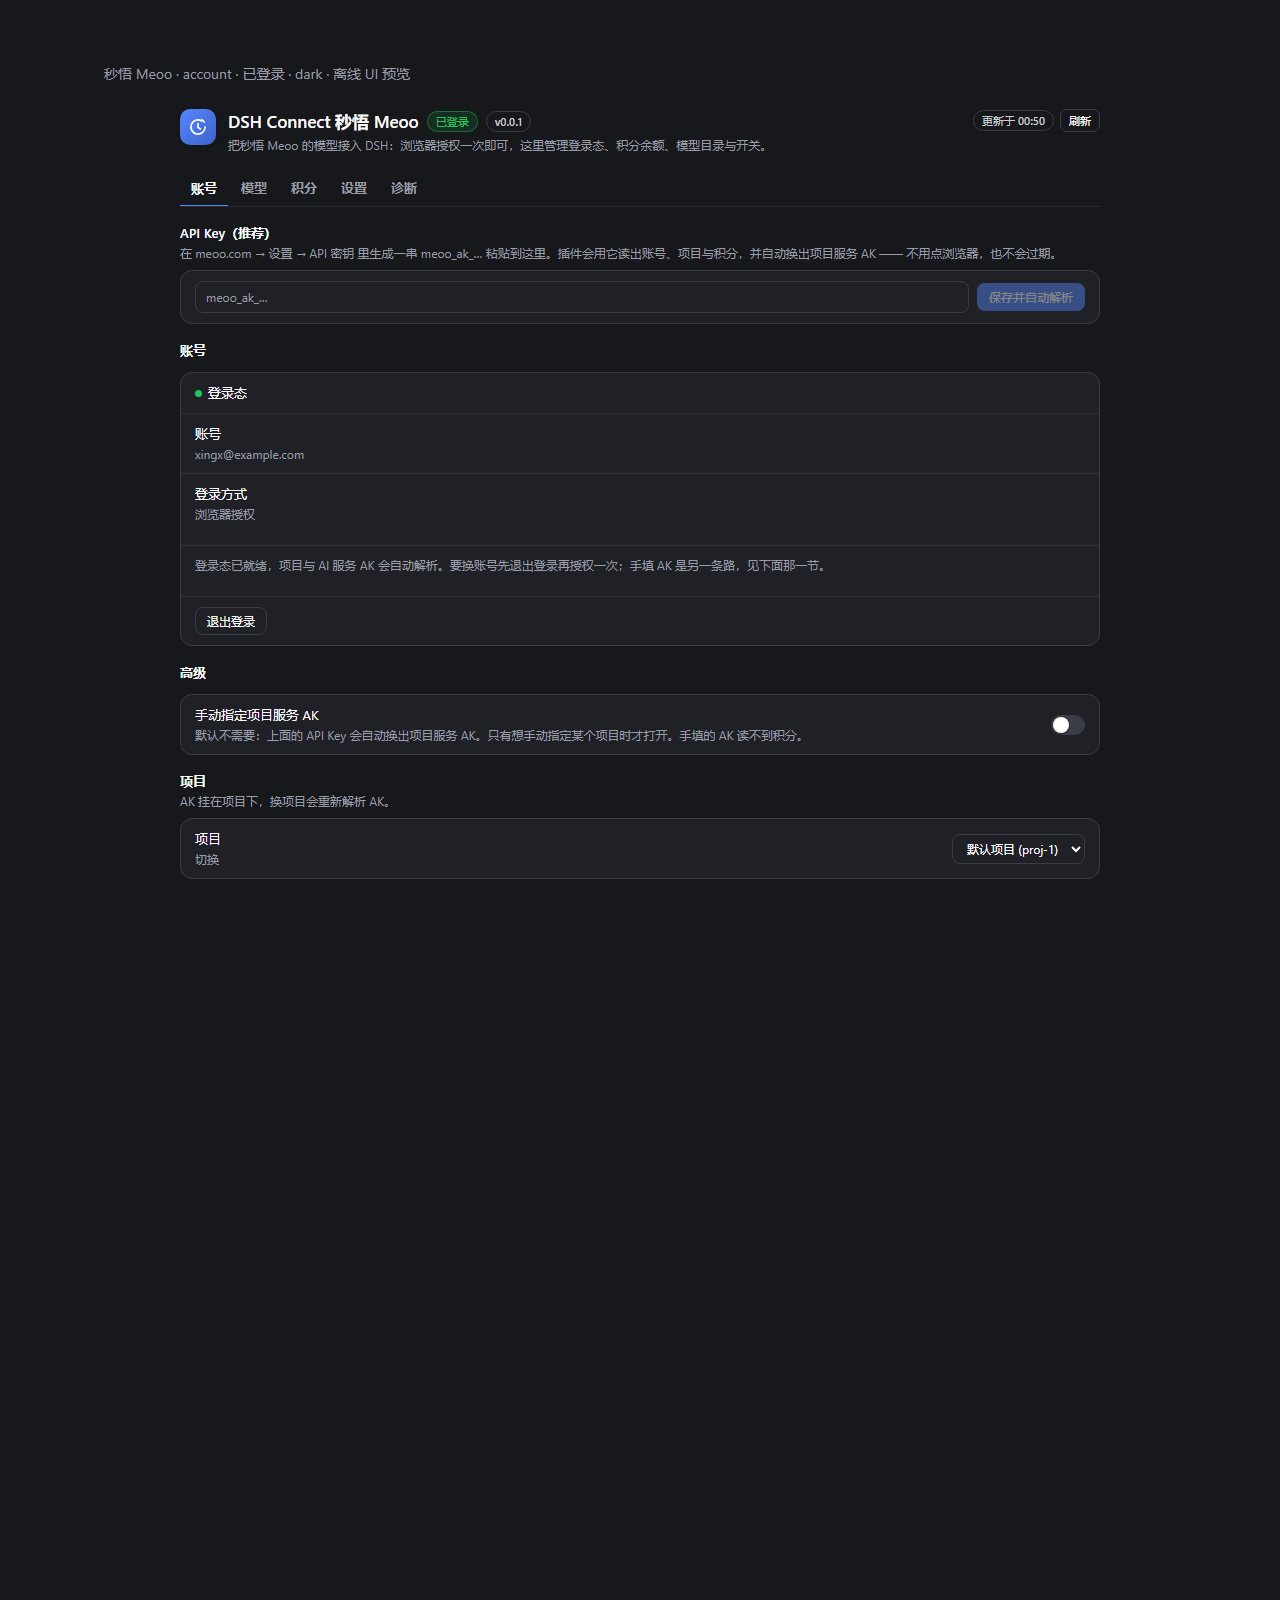
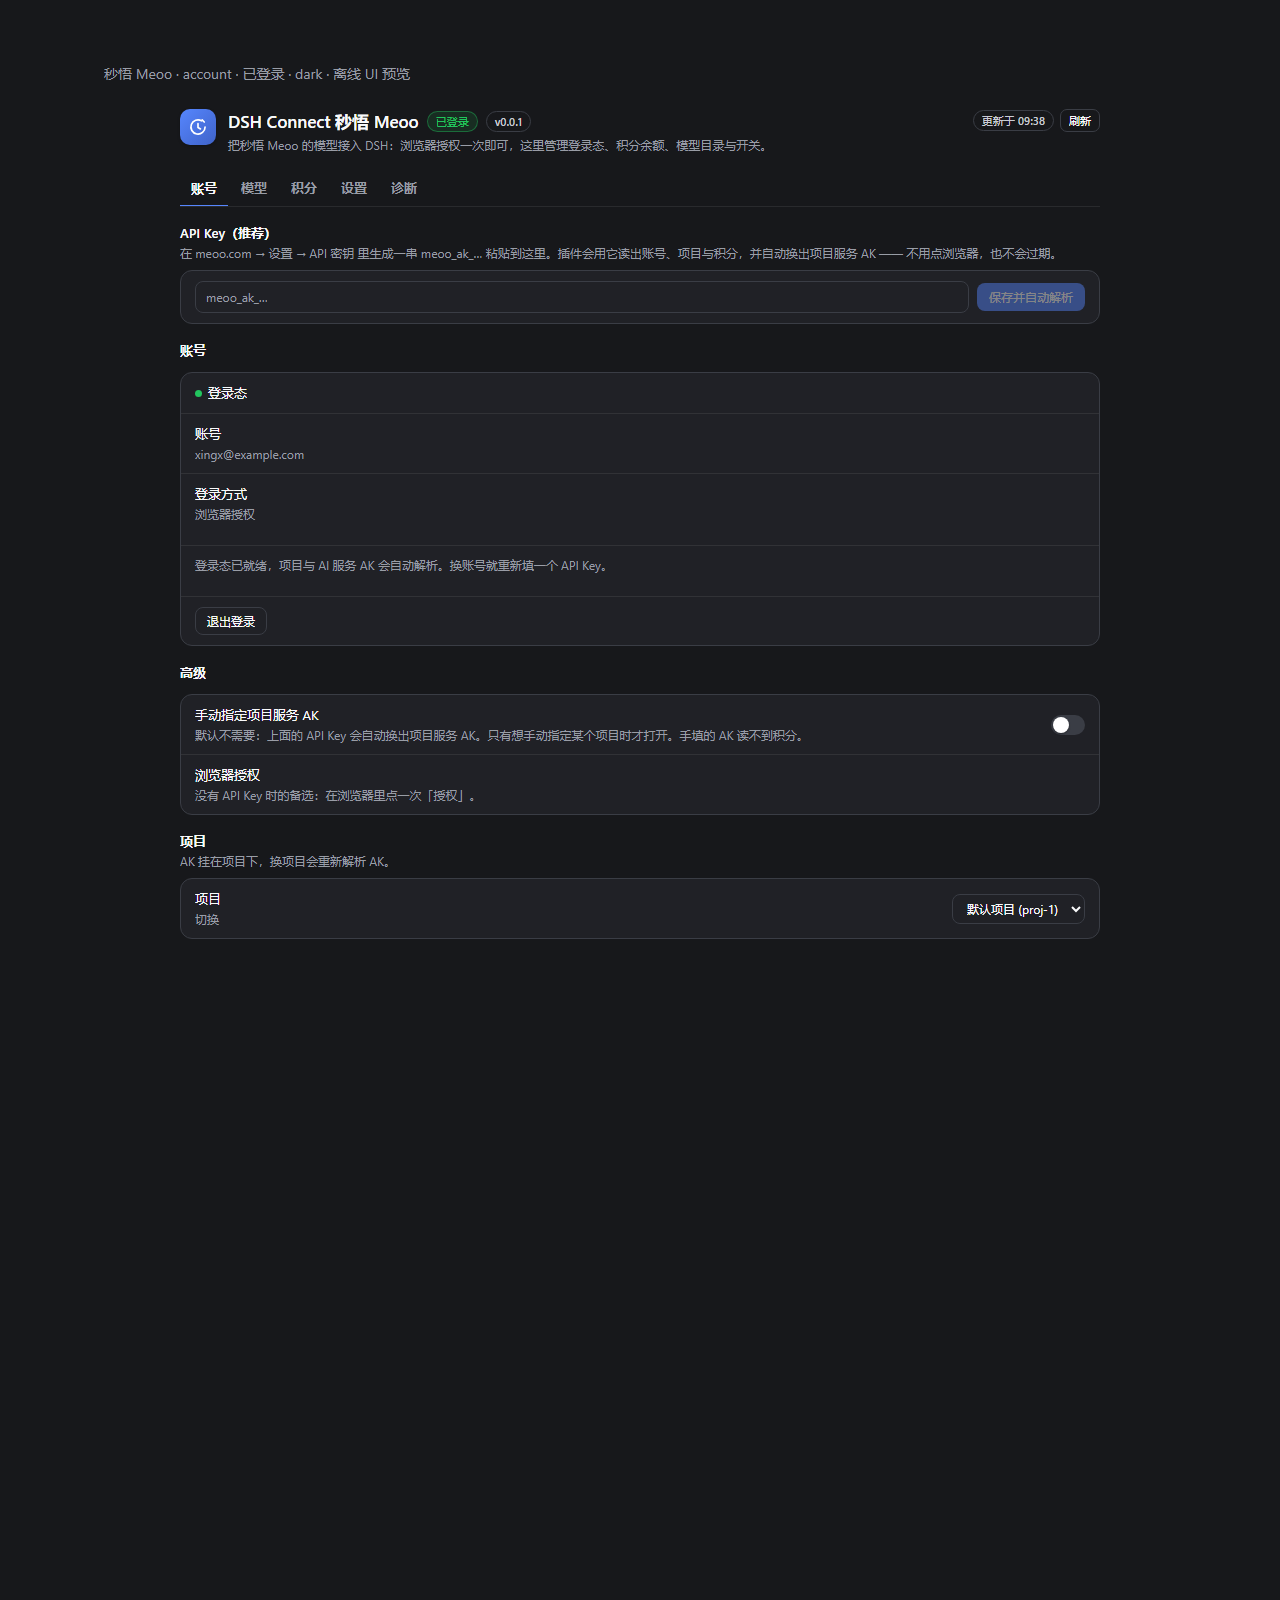
feat(ui): API Key 成为唯一主路径，去掉「登录秒悟」主按钮
对齐 qoder 插件的 PAT 模式：key 就是凭据，填完自动读出账号、项目、积分，
不需要再登录。浏览器授权降级到「高级」里的次要按钮，供没有 key 的用户兜底。

- 账号区不再有「登录秒悟」主按钮（之前和 API Key 并列，让人以为必须先登录）
- 未登录提示改为「在上面填一个 API Key 即可」，不再指向登录按钮
- 顶部副标题、已登录提示同步改写
- 新增 3 条回归测试锁住这个布局

diff --git a/src/client/bundle.js b/src/client/bundle.js
@@ -252,7 +252,7 @@
     openPanel: '打开秒悟面板',
     metaTitle: 'DSH Connect 秒悟 Meoo',
     metaDescription:
-      '把秒悟 Meoo 的模型接入 DSH：浏览器授权一次即可，这里管理登录态、积分余额、模型目录与开关。',
+      '把秒悟 Meoo 的模型接入 DSH：填一个 API Key 即可，这里管理账号、积分余额、模型目录与开关。',
     name: 'Meoo 秒悟',
     pill: '秒悟',
     pillPoints: '秒悟 · {points}',
@@ -289,12 +289,12 @@
     refresh: '刷新',
     refreshing: '刷新中…',
     loginHint:
-      '点「登录秒悟」会在浏览器打开授权页；点一次「授权」后，项目与 AI 服务 AK 会自动解析。也可以用 /meoo key 或本页手填 AK。',
+      '点「浏览器授权」会在浏览器打开授权页；点一次「授权」后，项目与 AI 服务 AK 会自动解析。',
     signedInHint:
-      '登录态已就绪，项目与 AI 服务 AK 会自动解析。要换账号先退出登录再授权一次；手填 AK 是另一条路，见下面那一节。',
+      '登录态已就绪，项目与 AI 服务 AK 会自动解析。换账号就重新填一个 API Key。',
     signedOutHint:
-      '还没有读到秒悟登录态。点「登录秒悟」在你自己的浏览器里授权一次即可；插件从不接触你的密码。',
-    expiredHint: '登录态已失效。点「登录秒悟」重新授权一次。',
+      '还没有读到秒悟凭据。在上面填一个 API Key 即可 —— 插件会自动读出账号、项目与积分，不用再登录。',
+    expiredHint: '登录态已失效。重新填一次 API Key，或在「高级 → 浏览器授权」里重新授权。',
     apiKeyTitle: 'API Key（推荐）',
     apiKeyLabel: '控制面 API Key（meoo_ak_…）',
     apiKeyPlaceholder: 'meoo_ak_…',
@@ -304,6 +304,8 @@
       '在 meoo.com → 设置 → API 密钥 里生成一串 meoo_ak_… 粘贴到这里。插件会用它读出账号、项目与积分，并自动换出项目服务 AK —— 不用点浏览器，也不会过期。',
     apiKeyBadType: '这是项目服务 AK，不是 API Key；API Key 以 meoo_ak_ 开头。',
     advancedTitle: '高级',
+    oauthTitle: '浏览器授权',
+    oauthHint: '没有 API Key 时的备选：在浏览器里点一次「授权」。',
     akTitle: '手动指定项目服务 AK',
     akLabel: '项目服务 AK（meoo_project_service_v1.…）',
     akPlaceholder: 'meoo_project_service_v1.…',
@@ -439,10 +441,10 @@
     loginHint:
       '“Sign in to Meoo” opens the authorisation page in your browser; press Authorise once and the project plus AI service AK are resolved automatically. You can also paste an AK here or use /meoo key.',
     signedInHint:
-      'Signed in. The project and AI service AK are resolved automatically. To switch accounts, sign out and authorise again; pasting an AK is the other route, see the section below.',
+      'Signed in. The project and AI service AK are resolved automatically. To switch accounts, paste a different API key.',
     signedOutHint:
-      'No Meoo sign-in found yet. Press “Sign in to Meoo” to authorise once in your own browser; the plugin never touches your password.',
-    expiredHint: 'The sign-in expired. Press “Sign in to Meoo” to authorise again.',
+      'No Meoo credentials yet. Paste an API key above — the plugin reads your account, project and points automatically. No sign-in needed.',
+    expiredHint: 'The sign-in expired. Paste an API key again, or re-authorise under Advanced → Browser sign-in.',
     apiKeyTitle: 'API Key (recommended)',
     apiKeyLabel: 'Control-plane API key (meoo_ak_…)',
     apiKeyPlaceholder: 'meoo_ak_…',
@@ -452,6 +454,8 @@
       'Create a meoo_ak_… key at meoo.com → Settings → API keys and paste it here. The plugin reads your account, projects and points with it and resolves the project service AK automatically — no browser, no expiry.',
     apiKeyBadType: 'That is a project service AK, not an API key; API keys start with meoo_ak_.',
     advancedTitle: 'Advanced',
+    oauthTitle: 'Browser sign-in',
+    oauthHint: 'Fallback when you have no API key: approve once in your browser.',
     akTitle: 'Set a project service AK by hand',
     akLabel: 'Project service AK (meoo_project_service_v1.…)',
     akPlaceholder: 'meoo_project_service_v1.…',
@@ -1010,22 +1014,9 @@
             Section,
             {
               title: t('account'),
-              // 已登录时不再摆一个「登录」主按钮：那会让人以为登录态没生效。
-              actions:
-                state === 'signed-in'
-                  ? null
-                  : h(
-                      'button',
-                      {
-                        type: 'button',
-                        className: 'dsm-meoo-btn dsm-meoo-btn-primary',
-                        disabled: busy !== '',
-                        onClick: function () {
-                          doLogin(false);
-                        },
-                      },
-                      busy === 'login' || pending ? t('loggingIn') : t('loginNow'),
-                    ),
+              // 不摆「登录秒悟」主按钮：API Key 才是主路径，两个并列的入口会让人
+              // 以为必须点登录。浏览器授权降级到「高级」里的次要链接（见下方 oauthRow）。
+              actions: null,
             },
             h(
               Row,
@@ -1181,6 +1172,26 @@
                   ),
                 )
               : null,
+            // 浏览器授权：没有 API Key 时的备选。默认折叠，避免和 API Key 抢主路径。
+            h(
+              Row,
+              { name: t('oauthTitle'), sub: t('oauthHint') },
+              // 已登录时这一行只是说明，不再给按钮（否则像是没登录成功）。
+              state === 'signed-in'
+                ? null
+                : h(
+                    'button',
+                    {
+                      type: 'button',
+                      className: 'dsm-meoo-btn dsm-meoo-btn-sm',
+                      disabled: busy !== '',
+                      onClick: function () {
+                        doLogin(false);
+                      },
+                    },
+                    busy === 'login' || pending ? t('loggingIn') : t('loginNow'),
+                  ),
+            ),
           ),
           h(ProjectPanel, { t: t, doc: doc }),
         );

diff --git a/test/client-render.test.ts b/test/client-render.test.ts
@@ -686,3 +686,44 @@ test('模型行显示官网价格档位与夜间折扣', async () => {
   assert.ok(text.includes('discountBadge'), '夜间折扣要显示');
   assert.ok(text.includes('千问最新平衡模型'), '官网说明要显示');
 });
+
+// ---------------------------------------------------------------------------
+// API Key 是唯一主路径（对齐 qoder 的 PAT 模式）：
+// 未登录时不该再摆「登录秒悟」主按钮，否则用户以为必须先登录。
+// ---------------------------------------------------------------------------
+
+test('未登录时账号区没有「登录秒悟」主按钮（API Key 才是主路径）', async () => {
+  const bundle = await setup(
+    fullDoc({ login: { state: 'signed-out', source: 'none', hasServiceAk: false, canLogin: true } }),
+  );
+  const Page = componentOf(bundle.registered, 'plugins.bundle.config');
+  const tree = mount(bundle, Page, { t: (key: string) => key, surface: 'detail' });
+
+  // loginNow 这个键仍然存在（「高级」里那个次要按钮要用它），
+  // 但页面上只该出现一次 —— 不能像改之前那样既在账号区标题又在高级里。
+  const text = renderText(tree, bundle.react);
+  const occurrences = text.split('loginNow').length - 1;
+  assert.equal(occurrences, 1, '「登录秒悟」只该出现在高级区那一个次要按钮上');
+
+  // 但浏览器授权仍要可达（降级到「高级」），否则没 key 的用户无路可走。
+  assert.ok(text.includes('oauthTitle'), '「高级」里要有浏览器授权入口');
+  assert.ok(text.includes('advancedTitle'), '要有「高级」这一节');
+});
+
+test('未登录提示指向 API Key，而不是让人去点登录', async () => {
+  const bundle = await setup(
+    fullDoc({ login: { state: 'signed-out', source: 'none', hasServiceAk: false, canLogin: true } }),
+  );
+  const Page = componentOf(bundle.registered, 'plugins.bundle.config');
+  const text = render(bundle, Page, { t: (key: string) => key, surface: 'detail' });
+  assert.ok(text.includes('signedOutHint'), '要有未登录提示');
+});
+
+test('已登录时「高级」里的浏览器授权不再给按钮', async () => {
+  const bundle = await setup(fullDoc());
+  const Page = componentOf(bundle.registered, 'plugins.bundle.config');
+  const tree = mount(bundle, Page, { t: (key: string) => key, surface: 'detail' });
+  const text = renderText(tree, bundle.react);
+  // 已登录仍显示这一行（说明来源），但不该再出现「登录秒悟」按钮。
+  assert.equal(text.includes('loginNow'), false, '已登录时不该有登录按钮');
+});

diff --git a/src/constants.ts b/src/constants.ts
@@ -13,7 +13,7 @@
 export const PROVIDER = 'meoo';
 
 /** 插件版本号（卡片与日志显示）。与 package.json 的 version 保持一致。 */
-export const VERSION = '0.0.2';
+export const VERSION = '0.0.4';
 
 /** 设置页命名空间（插件设置卡片的挂载点）。 */
 export const SETTINGS_NS = 'meoo';

diff --git a/README.md b/README.md
@@ -70,7 +70,18 @@ dsh-connect-meoo (Host)
 （`https://api.meoo.host/meoo-ai/compatible-mode/v1`），pi-ai 直接以
 「项目服务 AK 作 apiKey + 网关作 baseURL」转发。少一层代理就少一类掉流式的故障。
 
-## 登录：三条路，API Key 最省事
+## 登录：填一个 API Key 就完事（不需要登录账号）
+
+和 qoder 插件用 PAT 是同一个模式：**key 就是凭据，插件自动读出账号**。
+卡片里没有「登录」按钮——填 key 是唯一主路径，浏览器授权只是没有 key 时的备选，
+折叠在「高级」里。
+
+```
+贴 meoo_ak_… → 读身份 → 列项目 → 读积分 → 解析项目服务 AK → 拉模型目录
+                （项目没开通云服务时自动开通一次）
+```
+
+## 三条路对比
 
 | 方式 | 成本 | 能读积分 | 会过期吗 |
 | --- | --- | --- | --- |
@@ -215,7 +226,7 @@ node scripts/preview-ui.mjs  # 离屏渲染 UI 并截图到 docs/assets
 | `check-host` | 宿主真能 `import()` 这个包、`dsh` 声明与 patch row name 都对 |
 | `check-cordis` | **用真的 Cordis `Context` 装载一次**，含卸载释放（假 ctx 验不出 Cordis 接不接受） |
 | `check-endpoint-evidence` | 写「上游没有某接口」必须指向一份带**对照组**的取证记录 |
-| `tests` | 140 个单测（含**浏览器半侧真实渲染**：组件函数真的被执行一遍，含开关语义/搜索过滤/胶囊弹层） |
+| `tests` | 143 个单测（含**浏览器半侧真实渲染**：组件函数真的被执行一遍，含开关语义/搜索过滤/胶囊弹层） |
 | `preview-ui` | 浏览器半侧离屏渲染 16 个页面：非空、CSS 已注入、无 `undefined`（`--check` 模式，不落盘不截图） |
 | `smoke-apply` | 真跑一次 `apply()` 并验证注册内容 |
 
